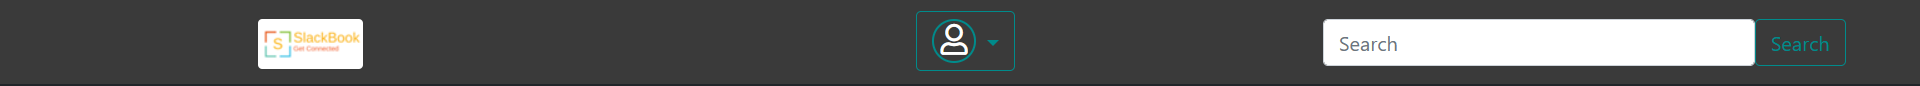
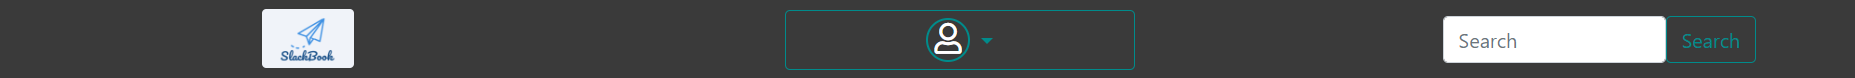
changed screenshots in readme

diff --git a/templates/base-nav.html b/templates/base-nav.html
@@ -28,7 +28,7 @@
     <!-- Header -->
     <nav class="navbar navbar-expand-lg navbar-light bg-light ">
         <div class="row header no-gutters">
-            <div class="col-md-4">
+            <div class="col-md-6">
                 <a class="navbar-brand" href="/"><img class="brand" src="{% static 'images/SlackBook-Logo.png' %}"
                         alt="logo"></a>
                 <button class="navbar-toggler" type="button" data-toggle="collapse"

diff --git a/README.md b/README.md
@@ -44,10 +44,11 @@ The Project can be seen [here](https://slackbook2-0.herokuapp.com/)
         <img src="static/images/screenshot-header-dropdown.png" alt="Dropdown">
         <br>
         - Hamburger menu
+        <br>
         <img src="static/images/screenshot-header-hamburger.png" alt="Hamburger">
         <br>
         - Header small
-        <img src="static/images/screenshot-log-out.png" alt="Header2">
+        <img src="static/images/screenshot-small-header.png" alt="Header-small">
 
 
 - __The Footer__ 
@@ -79,8 +80,11 @@ The Project can be seen [here](https://slackbook2-0.herokuapp.com/)
 
 - All SlackBook users are displayed on the right side. These are sorted by the most recent login date and linked to the respective user account. In addition, the most recent post of the respective user is displayed here if they were not posted in a private channels.
 
-    - Landing Page Images
+- Landing Page Images
+<br>
 <img src="static/images/screenshot-landing-logged-in.png" alt="Landing">
+<br>
+- Landing Page Images-My Channels
 <br>
 <img src="static/images/screenshot-landing-logged-in2.png" alt="Landing2">
 
@@ -100,6 +104,7 @@ The Project can be seen [here](https://slackbook2-0.herokuapp.com/)
 On the right side you can see all members of the channel, who are also linked here.
 
    - Channel Image
+   <br>
    <img src="static/images/screenshot-channel.png" alt="Channel">
 
 
@@ -111,7 +116,7 @@ On the right side you can see all members of the channel, who are also linked he
 - The channels are displayed below the categories. If no category is clicked, all categories and all channels are displayed. The channel titles of the respective channels are displayed. In addition to the channel titles, the channel hosts are displayed. These are also links that lead to the respective user accounts.
 
     - Channel Image
-    <img src="static/images/screenshot-categories-channels.png" alt="Channel">
+    <img src="static/images/screenshot-categorie-channels.png" alt="Channel">
 
 
 
